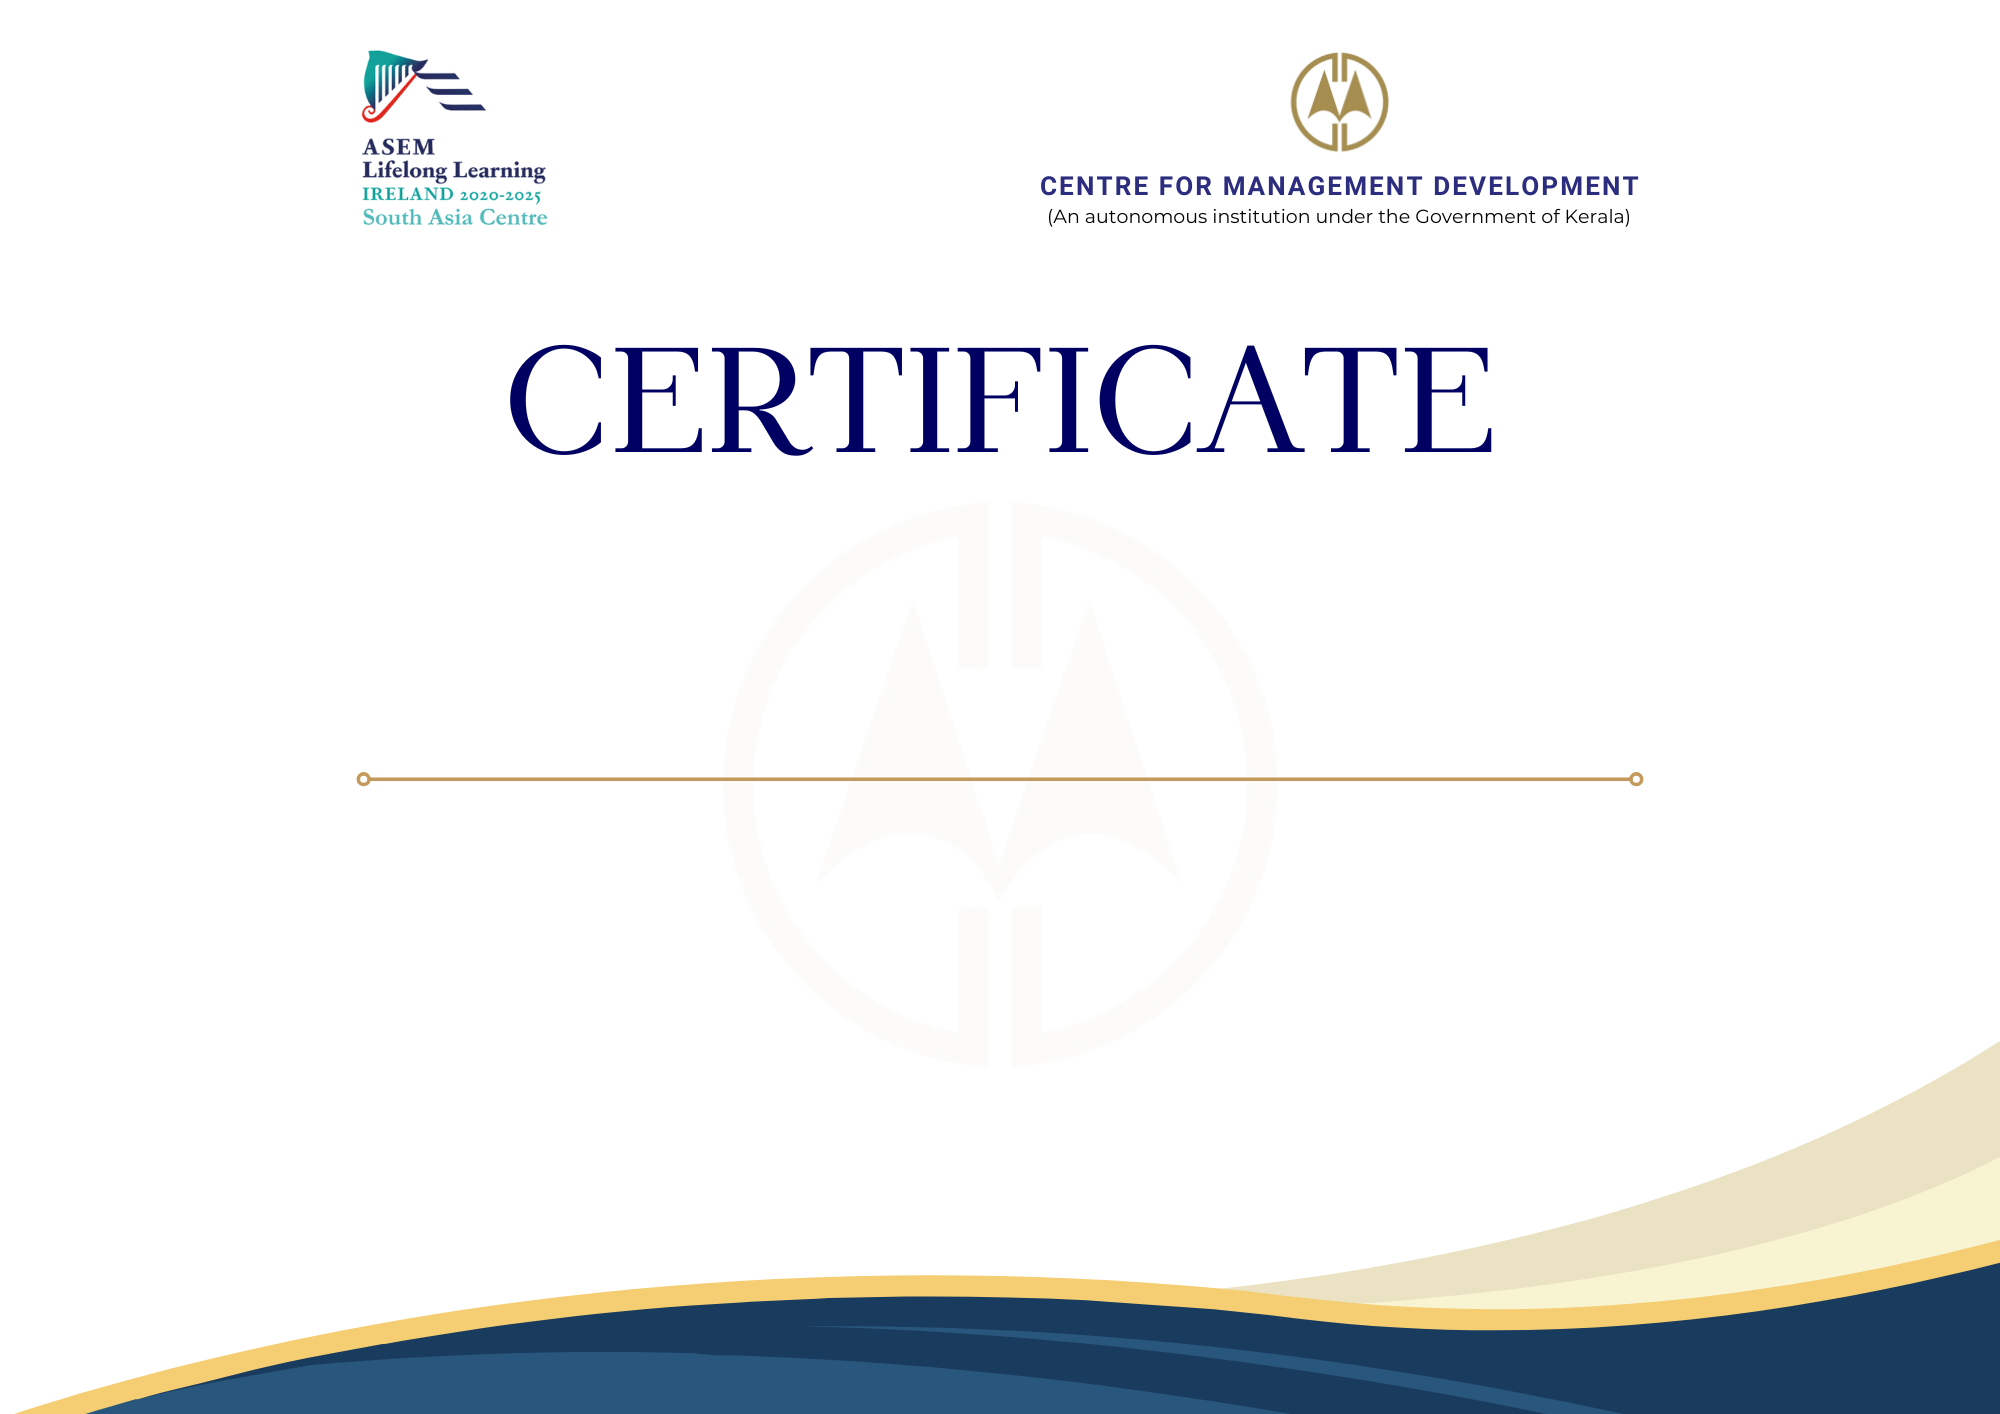
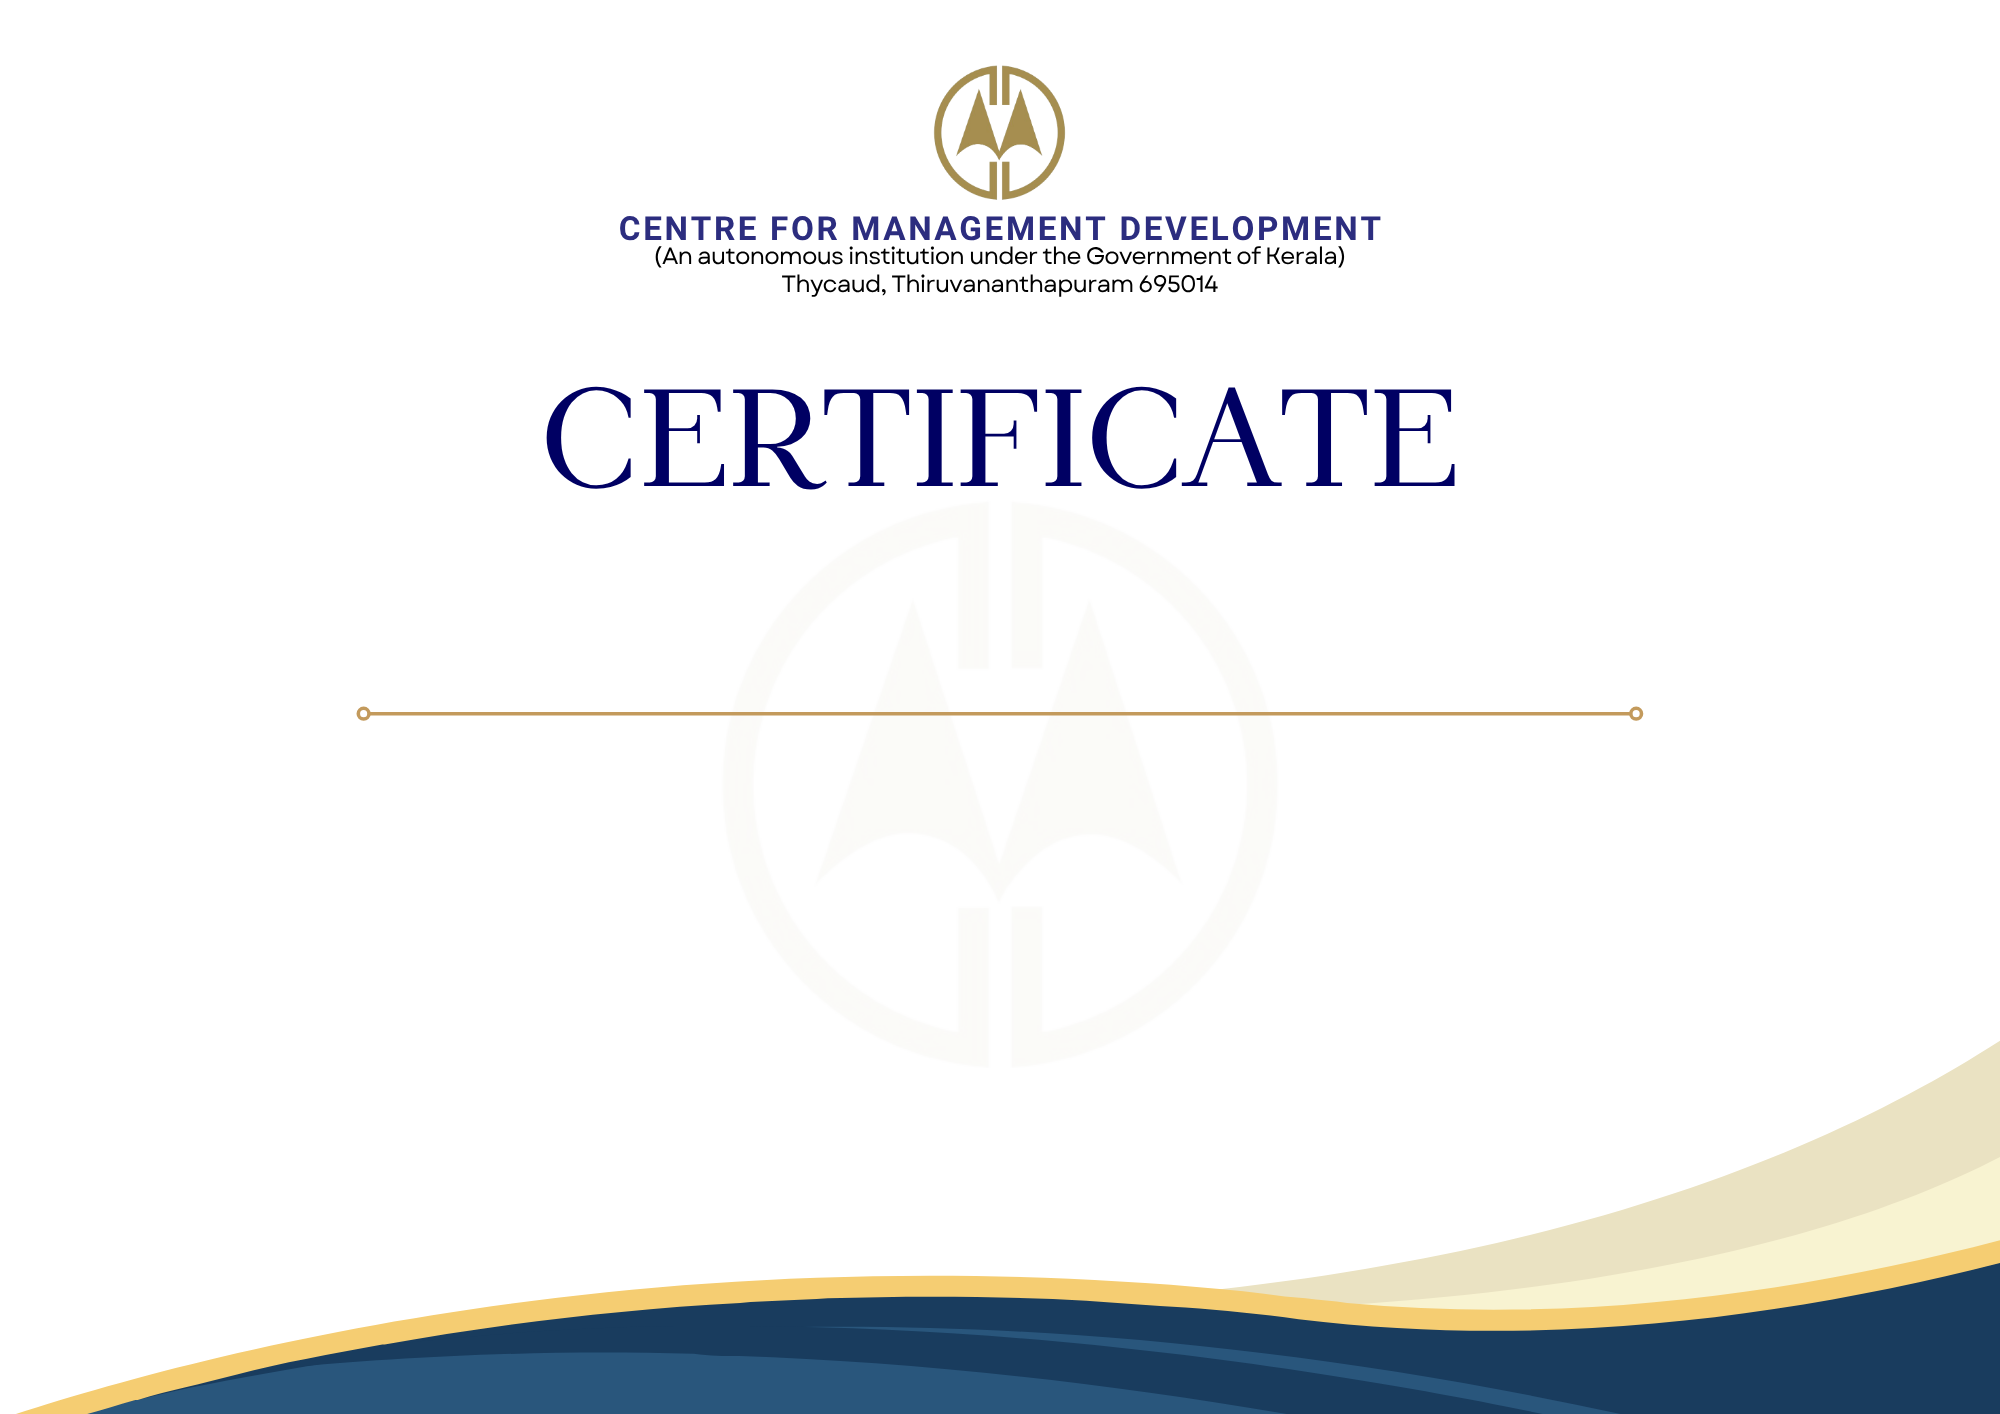
CMD name changed

Changed region(s): [[0.248, 0.0311, 0.837, 0.3423], [0.186, 0.0311, 0.279, 0.1556]]

diff --git a/resources/views/certificate/pdf.blade.php b/resources/views/certificate/pdf.blade.php
@@ -83,7 +83,7 @@
         </table>
       </div>
 
-      <div style="width:100%; margin:0; padding-top:20em;" class="cer_text">
+      <div style="width:100%; margin:0; padding-top:18em;" class="cer_text">
 
 
 
@@ -92,30 +92,33 @@
 
           <h2 class="nameText">{{ ucwords(strtolower($user->name)) }}</h2>
           {{-- <h4><i><strong>{{ $user->email }} </strong></i></h4> --}}
-          <br>
-          <h3 style="padding-left: 8em;padding-right: 8em;">has participated in the one day program <strong>“
-              International Multiplier Training - Entrepreneurship Education for All” </strong>conducted by CMD in
+          {{-- <br> --}}
+          <h3 style="padding-left: 8em;padding-right: 8em;">System Admin, CMD, has participated in the one day programme
+            on
+            <strong>“
+              International Multiplier Training- Entrepreneurship Education for All” </strong>conducted by CMD in
             collaboration with ASEM Lifelong Learning South Asia centre on
-            <strong>November 17, 2015 </strong> at <strong>Centre for Management Development,
+            <strong>November 17, 2015 </strong> at the <strong>Centre for Management Development,
               Thiruvananthapuram.</strong>
           </h3>
 
         </div>
 
       </div>
-      <div style="padding:3em 3em; padding-left:2em;">
+      <div style="padding:1em 1em; padding-left:2em;">
 
         <table width="100%">
 
 
           <tr>
             <td align="center" width="50%" valign="bottom" style="padding-bottom: 1em; ">
-              {{-- <img src="./assets/img/branding/seal.png" width="100px" height="100px"
-                style=" padding:0px;margin:0px;"> --}}
+              <img src="./assets/img/branding/ASEM-logo.png" width="80px" height="80px"
+                style=" padding:0px;margin:0px;">
 
-              <hr style="color: #d7a534; width:50%">
-              <p style=" padding:0px;margin:0px; font-weight:600;">Director <br><small style="color:#865b34">ASEM
-                  Lifelong Learning</small></p>
+              {{--
+              <hr style="color: #d7a534; width:50%"> --}}
+              <p style=" padding:0px;margin:0px; font-weight:600;"> <small>ASEM
+                  Lifelong Learning Hub</small></p>
             </td>
             {{-- <td align="center" width="30%" valign="bottom" style="padding-bottom: 1em;">
               <img src="./assets/img/branding/medal-icon.png" width="100px" height="100px"
@@ -124,11 +127,12 @@
             </td> --}}
 
             <td align="center" width="50%" valign="bottom" style="padding-bottom: 1em; ">
-              {{-- <img src="./assets/img/branding/signature.png" width="110px" height="100px"
-                style=" padding:0px;margin:0px;"> --}}
+              <img src="./assets/img/branding/cmdlogo.png" width="70px" height="70px" style=" padding:0px;margin:0px;">
 
-              <hr style="color: #d7a534; width:50%">
-              <p style=" padding:0px;margin:0px; font-weight:600;">Director <br><small style="color:#865b34">Centre for
+              {{--
+              <hr style="color: #d7a534; width:50%"> --}}
+              <p style=" padding:0px;margin:0px; font-weight:600;"> <small>Centre
+                  for
                   Management Development</small></p>
             </td>
           </tr>

diff --git a/app/Http/Controllers/PMS/ReportController.php b/app/Http/Controllers/PMS/ReportController.php
@@ -201,6 +201,7 @@ public function projectStatusDetailed(Request $request)
         );
         return $project;
     });
+    // print_r($projects->where('id',876));exit;
 
     // Grouping by category with filtered invoices and payments
     $categoryWise = $projects->groupBy(fn($p) => $p->requirement->category->name ?? 'Uncategorized');

diff --git a/config/variables.php b/config/variables.php
@@ -4,7 +4,7 @@
 return [
   "creatorName" => "Centre for Management Development",
   "creatorUrl" => "https://cmd.kerala.gov.in",
-  "templateName" => "CMD HRMS",
+  "templateName" => "CMD SUITE",
   "templateSuffix" => "Complete ERP Solution for CMD",
   "templateVersion" => "1.0.0",
   "templateFree" => false,
